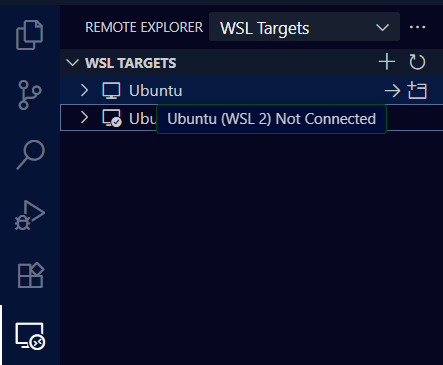
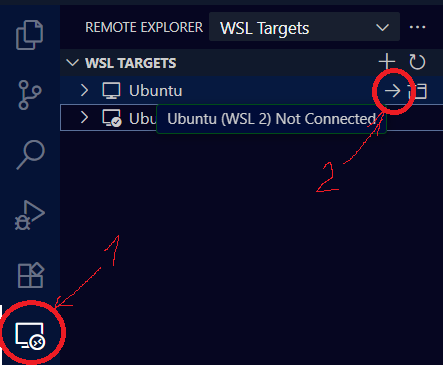
Добавлено задание

diff --git a/Модуль 1/0. Настройка рабочего окружения/README.md b/Модуль 1/0. Настройка рабочего окружения/README.md
@@ -220,10 +220,59 @@ git pull origin
 
 **3. Открываем VS Code и подключаемся в нём к виртуальной машине**
 
+- Терминал закрывать не нужно!
 - На левой панели инструментов ищем иконку с монитором, кликаем по ней.
 - В списке "WSL Targets" ищем строку Ubuntu - наводим курсор на неё - должна появиться стрелка - кликаем по ней.
 
 ![](image.png)
+
+**4. Открываем файл для редактирования**
+
+- На левой панели инструментов открываем вкладку Explorer.
+- Жмём на кнопку Open Folder.
+- В появившемся окне жмём на кнопку ОК.
+
+![](image-2.png)
+
+- Во вкладке explorer должно окрыться дерево файловой системы.
+- Ищем файл, указанный на скриншоте, открываем его в VS Code:
+
+![](image-1.png)
+
+**5. Редактируем файл**
+
+- После открытия файла листаем в его конец.
+- Добавляем в самый его конец (с новой строки) следующий текст:
+
+```bash
+## ***Да, я готов ишачить!***
+```
+
+![alt text](image-3.png)
+
+
+- Обязательно сохраняем файл.
+
+**6. Отправялем изменения на удалённы репозиторий**
+
+- Возвращаемся в терминал.
+- Фиксируем изменения:
+
+```bash
+git add .
+```
+
+- Комиттим изменения:
+
+```bash
+git commit -m "Отредактирован файл"
+```
+
+- Отправляем изменения в удалённый репозиторий
+
+```bash
+git push origin main
+```
 
 ---
 
